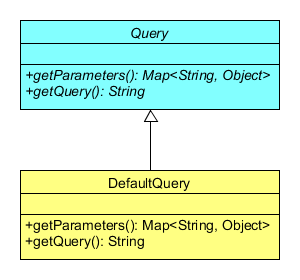
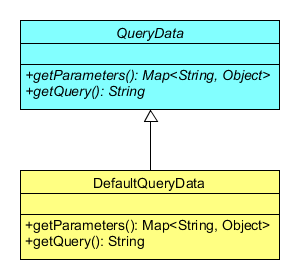
Changed the Query name to QueryData.

Changed region(s): [[0.3, 0.6286, 0.69, 0.6857], [0.39, 0.0857, 0.63, 0.1429]]

diff --git a/src/main/java/com/wandrell/pattern/repository/DefaultQueryData.java b/src/main/java/com/wandrell/pattern/repository/DefaultQueryData.java
@@ -30,14 +30,14 @@ import java.util.LinkedHashMap;
 import java.util.Map;
 
 /**
- * Default implementation of {@link Query}.
+ * Default implementation of {@link QueryData}.
  * <p>
  * This is an immutable class, which will just store the data to be used in a
  * query, not allowing it to be edited.
  * 
  * @author Bernardo Martínez Garrido
  */
-public final class DefaultQuery implements Query {
+public final class DefaultQueryData implements QueryData {
 
     /**
      * Parameters for the query.
@@ -58,7 +58,7 @@ public final class DefaultQuery implements Query {
      * @param query
      *            the query string
      */
-    public DefaultQuery(final String query) {
+    public DefaultQueryData(final String query) {
         this(query, new LinkedHashMap<String, Object>());
     }
 
@@ -70,7 +70,8 @@ public final class DefaultQuery implements Query {
      * @param parameters
      *            the query's parameters
      */
-    public DefaultQuery(final String query, final Map<String, Object> parameters) {
+    public DefaultQueryData(final String query,
+            final Map<String, Object> parameters) {
         super();
 
         checkNotNull(query, "Received a null pointer as query");

diff --git a/src/main/java/com/wandrell/pattern/repository/QueryData.java b/src/main/java/com/wandrell/pattern/repository/QueryData.java
@@ -38,7 +38,7 @@ import java.util.Map;
  * @author Bernardo Martínez Garrido
  * @see com.wandrell.pattern.repository.Repository Repository
  */
-public interface Query {
+public interface QueryData {
 
     /**
      * The parameters to be applied to the query.
